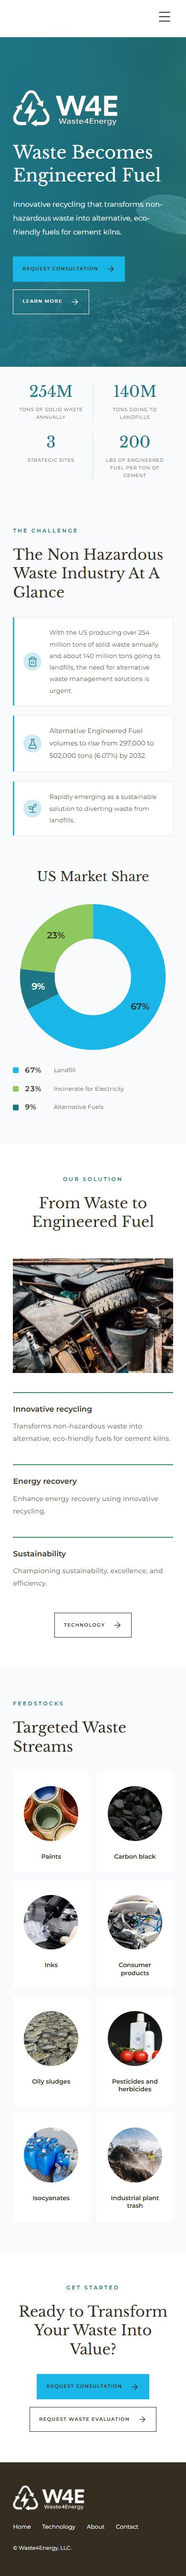
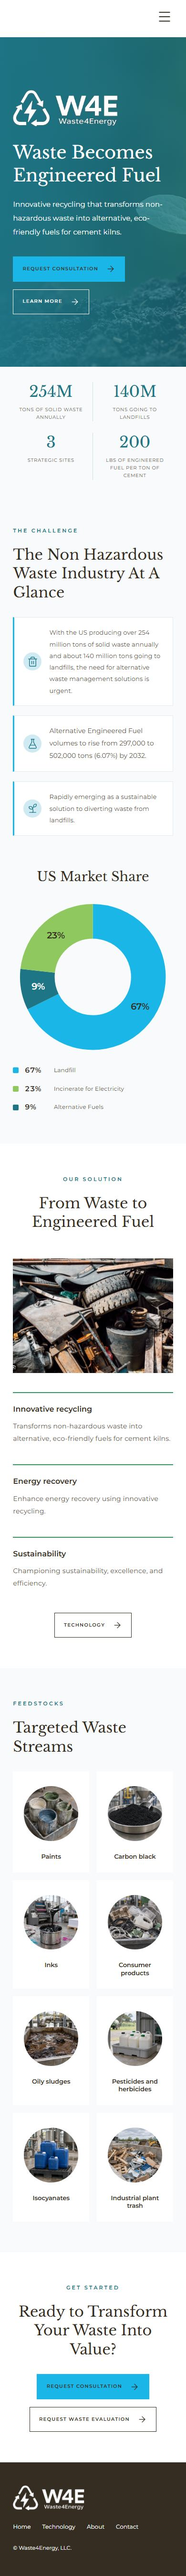
Generate new waste-stream photography and animate the donut clockwise with tallying labels

Changed region(s): [[0.1231, 0.6852, 0.4308, 0.8721], [0.5846, 0.6852, 0.8615, 0.8721]]

diff --git a/Waste4Energy_Review/site.js b/Waste4Energy_Review/site.js
@@ -65,12 +65,61 @@ if (document.querySelector('.hero') && 'IntersectionObserver' in window && !coun
     });
   }, { threshold: .35, rootMargin: '0px 0px -24px 0px' });
   document.querySelectorAll('.stat-number').forEach(node => {
+    if (node.closest('.market-legend')) return;
     const original = node.textContent.trim();
     if (!/^([+-]?)(\d[\d,]*(?:\.\d+)?)(.*)$/.test(original)) return;
     node.dataset.total = original;
     const spoken = document.createElement('span'); spoken.className = 'sr-only'; spoken.textContent = original;
     const visual = document.createElement('span'); visual.setAttribute('aria-hidden', 'true'); visual.textContent = original.replace(/[\d,.]+/, '0');
     node.replaceChildren(spoken, visual); counters.observe(node);
+  });
+}
+// A single clockwise sweep drives each sector and its two percentage labels.
+// Static and reduced-motion views retain the complete, source-backed chart.
+if ('IntersectionObserver' in window && !counterReduced.matches) {
+  document.querySelectorAll('.market-chart').forEach(chart => {
+    const wipe = chart.querySelector('.market-wipe');
+    if (!wipe) return;
+    const legend = chart.closest('.market-panel').querySelectorAll('.market-legend .stat-number');
+    const records = [...chart.querySelectorAll('.market-percent')].map(label => {
+      const original = label.dataset.total;
+      const number = legend[Number(label.dataset.marketIndex)];
+      number.dataset.total = original;
+      const spoken = document.createElement('span'); spoken.className = 'sr-only'; spoken.textContent = original;
+      const visual = document.createElement('span'); visual.setAttribute('aria-hidden', 'true');
+      number.replaceChildren(spoken, visual);
+      const decimals = (original.replace('%', '').split('.')[1] || '').length;
+      return {label, visual, original, value:parseFloat(original), start:Number(label.dataset.sweepStart), size:Number(label.dataset.sweepSize), format:new Intl.NumberFormat('en-US',{minimumFractionDigits:decimals,maximumFractionDigits:decimals})};
+    });
+    let frame = 0;
+    function update(sweep) {
+      wipe.setAttribute('stroke-dashoffset', String(100 - sweep));
+      records.forEach(record => {
+        const progress = record.size ? Math.max(0, Math.min(1, (sweep - record.start) / record.size)) : 1;
+        const text = progress === 1 ? record.original : record.format.format(record.value * progress) + '%';
+        record.label.textContent = text; record.visual.textContent = text;
+        // Reveal the in-ring number only once the wipe reaches its position.
+        record.label.setAttribute('opacity', String(Math.max(0, Math.min(1, (progress - .45) / .15))));
+      });
+    }
+    function finish() {
+      cancelAnimationFrame(frame); frame = 0; update(100);
+      chart.dataset.chartState = 'complete'; observer.unobserve(chart);
+    }
+    const observer = new IntersectionObserver(entries => {
+      if (!entries.some(entry => entry.isIntersecting)) return;
+      observer.unobserve(chart); chart.dataset.chartState = 'animating';
+      const start = performance.now() + Number(chart.dataset.revealStep || 0) * 65;
+      function animate(time) {
+        if (counterReduced.matches) { finish(); return; }
+        const progress = Math.max(0, Math.min(1, (time - start) / 1800));
+        update((1 - Math.pow(1 - progress, 3)) * 100);
+        if (progress < 1) frame = requestAnimationFrame(animate); else finish();
+      }
+      frame = requestAnimationFrame(animate);
+    }, {threshold:.25,rootMargin:'0px 0px -24px 0px'});
+    update(0); chart.dataset.chartState = 'waiting'; observer.observe(chart);
+    counterReduced.addEventListener('change', () => { if (counterReduced.matches) finish(); });
   });
 }
 const form = document.querySelector('#contact-form');

diff --git a/Waste4Energy_Review/scripts/assets.py b/Waste4Energy_Review/scripts/assets.py
@@ -7,9 +7,6 @@ source = Path(sys.argv[1])
 out = Path(__file__).resolve().parents[1] / 'assets'
 doc = fitz.open(source)
 (out / 'vision-processing.jpeg').write_bytes(doc.extract_image(24)['image'])
-# Original, unmodified photos from physical slide 5, matched to their labels.
-for name, xref in [('paints', 106), ('carbon-black', 107), ('inks', 108), ('consumer-products', 109), ('oily-sludges', 110), ('pesticides-herbicides', 111), ('isocyanates', 112), ('industrial-plant-trash', 113)]:
-    (out / f'waste-{name}.jpeg').write_bytes(doc.extract_image(xref)['image'])
 names = ['paul-bordelon', 'jeff-gloyd', 'torry-ingram', 'grant-williams']
 # Render the original composited portraits: isolated embedded photographs have
 # PDF soft masks that do not reproduce correctly as standalone image files.

diff --git a/Waste4Energy_Review/CONTENT-MAP.md b/Waste4Energy_Review/CONTENT-MAP.md
@@ -8,7 +8,7 @@ Source: `Waste4Energy Presentation.pdf` (11 physical pages), supplied locally. T
 | 2: Our Vision | About vision / roadmap; short excerpts on Home | Texas, Alabama, Western US retained. No invented completion dates or Arizona facility. Home hero uses an excerpt from the supplied vision. The original recycling-facility photo from this slide supplies the Our Vision section's animated background. |
 | 3: executive team | About team | Visually checked: Paul Bordelon = CEO; Jeff Gloyd = COO; Torry Ingram = Chief Sales Officer; Grant Williams = Strategic Consultant. Biographies and corresponding source portraits retained. |
 | 4: industry overview | Home challenge / market-share block | All three source statements appear as separate boxes with consistent line icons. The donut chart preserves 67% Landfill, 23% Incinerate for Electricity, and 9% Alternative Fuels. Growth sentence 297,000 to 502,000 tons (6.07%) by 2032 retained. Source percentages total 99%; the ring uses their relative proportions and preserves displayed values without inventing a category. |
-| 5: targeted waste streams | Home photo grid | Paints, carbon black, inks, consumer products, oily sludges, pesticides and herbicides, isocyanates, industrial plant trash. Each category uses its corresponding original embedded photo from the presentation, displayed in a circle. Template's different eight categories removed. |
+| 5: targeted waste streams | Home photo grid | The eight source categories and captions are retained. At the client's request, the presentation's stock photographs are replaced with eight newly generated industry photographs using different compositions and no reference images. Generation prompts are recorded in content/generated-image-prompts.json. The old waste-stream photo assets are removed from this version. |
 | 6: alternative fuels | Technology intro and cement-process illustration | 200 lbs of engineered fuel per ton of cement added instead of coal. Not reworded as a guaranteed emissions reduction. Uses the exact supplied Process_Illustration.jpeg, with an accessible text description and full-size link. |
 | 7: site pitch | Technology site metrics and site plan | 30,000 NT/yr, 195,000 sqft, 17,600 sqft and +3,500 sqft retained. Full source plan preserves ancillary labels and dimensions. |
 | 8: Phase 1 receiving | Technology receiving / Phase 1 | Equipment list and full source schematic retained, including nested shredder and baghouse component labels on the schematic. |

diff --git a/Waste4Energy_Review/README.md b/Waste4Energy_Review/README.md
@@ -24,6 +24,8 @@ The editor is an internal local tool, not a public administration portal. Change
 
 The Home hero uses the original photo with `assets/hero-depth.svg`, a grayscale depth mask, for subtle WebGL mouse parallax. The text remains fixed. Touch devices, reduced-motion preferences and unavailable WebGL keep the static photo. Home figures tally once as they enter view, preserving their original values and suffixes; reduced-motion mode displays final values immediately.
 
+Targeted Waste Streams uses eight newly generated industry photos in optimized WebP format, replacing the presentation's stock photos. Prompts are recorded in `content/generated-image-prompts.json`. The market-share donut wipes clockwise once on entry, with its percentage labels and legend tallying in sync; reduced-motion mode shows the completed chart immediately.
+
 ## Publishing changes
 
 Every website change must also update the GitHub Pages preview at https://darkmattergravity.github.io/W4E-website-designs/Waste4Energy_Review/. Build the current source, publish the contents of `dist/` to `Waste4Energy_Review/` on the repository's `master` branch, and verify the deployed pages. Keep the internal editor out of the published directory. GoDaddy deployment remains manual.
